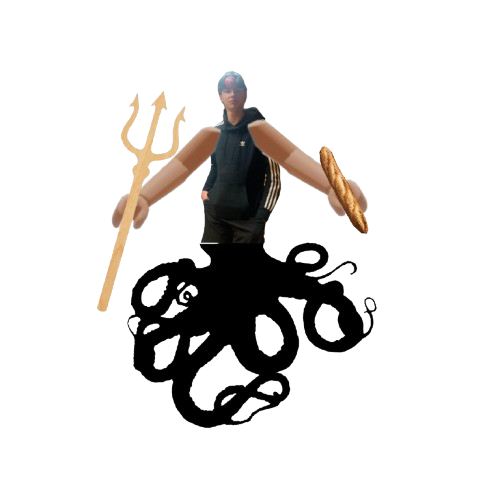
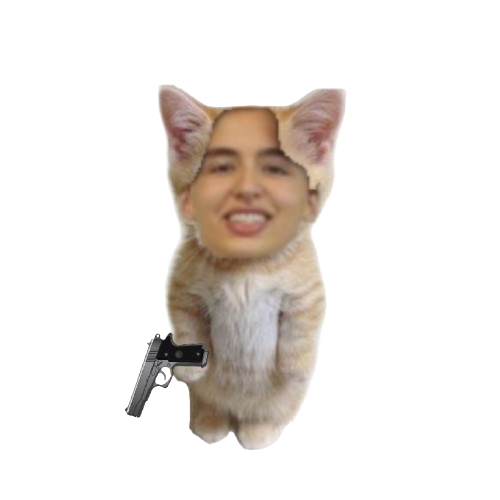
Added text to win screen; replaced gabriel entity with v2

Changed region(s): [[0.18, 0.12, 0.75, 0.9]]

diff --git a/game.py b/game.py
@@ -98,9 +98,6 @@ swedish_flag_rect.bottomright = (SCREEN_WIDTH, SCREEN_HEIGHT)
 # load entities
 loris_entity_og = pg.image.load("./assets/custom/loris_entity.png").convert_alpha()
 gabriel_entity_og = pg.image.load("./assets/custom/gabriel_entity.png").convert_alpha()
-gabriel_entity2_og = pg.image.load(
-    "./assets/custom/gabriel_entity2.png"
-).convert_alpha()
 phillippe_entity_og = pg.image.load(
     "./assets/custom/phillippe_entity.png"
 ).convert_alpha()
@@ -671,7 +668,9 @@ class Game:
                 self.reset(2)
                 # title:
                 gameover_title = TITLE_FONT.render("Game Over!", True, (187, 127, 68))
-                gameover_title_rect = gameover_title.get_rect(center=(640, 140))
+                gameover_title_rect = gameover_title.get_rect(
+                    center=(SCREEN_WIDTH / 2, 140)
+                )
                 SCREEN.blit(gameover_title, gameover_title_rect)
                 # subtitle:
                 gameover_subtitle = SUBTITLE_FONT.render(
@@ -693,6 +692,9 @@ class Game:
                 SCREEN.blit(gameover_tipw, gameover_tipw_rect)
             elif self.state == "win":
                 self.reset(2)
+                win_title = TITLE_FONT.render("You won!", True, (187, 127, 68))
+                win_title_rect = gameover_title.get_rect(center=(SCREEN_WIDTH / 2, 140))
+                SCREEN.blit(win_title, win_title_rect)
                 # add picture
                 happy_win = pg.image.load("./assets/custom/happy_win.png")
                 happy_win_rect = happy_win.get_rect(center=(600, 540))
@@ -813,7 +815,7 @@ class Entity(pg.sprite.Sprite):
         self.rect.y = round(4.5 * TILE_SIZE)
         if self.og_image == loris_entity_og:
             self.entity_hp = 120
-        elif self.og_image == gabriel_entity_og or self.og_image == gabriel_entity2_og:
+        elif self.og_image == gabriel_entity_og:
             self.entity_hp = 220
         elif self.og_image == phillippe_entity_og:
             self.entity_hp = 380
